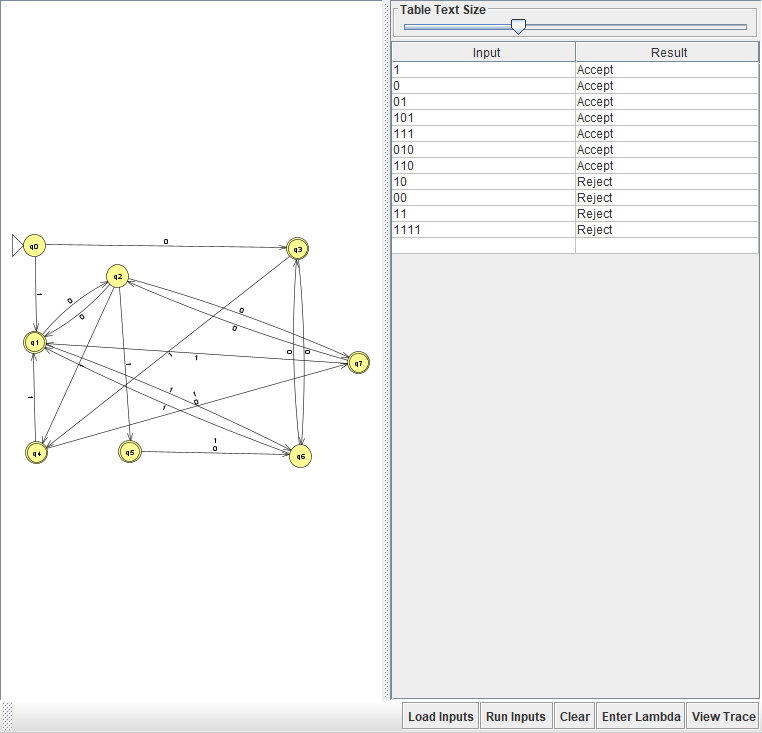
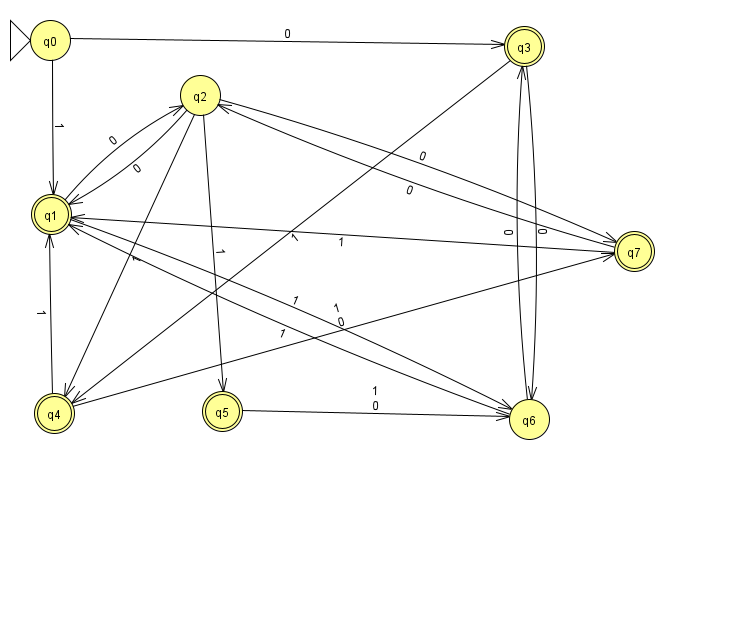
Update README, n08r.md, n16r.md; refresh n16/n21/n23 diagrams

diff --git a/README.md b/README.md
@@ -1,0 +1,220 @@
+\# NFA Design Project
+
+
+
+\## Problems Chosen
+
+
+
+| # | Language | File |
+
+|---|----------|------|
+
+| 8 | starts with `01` and ends with `10` | \[n08](n08.jff) |
+
+| 11 | 2nd-to-last bit is `1` | \[n11](n11.jff) |
+
+| 16 | every odd position is `1` | \[n16](n16.jff) |
+
+| 21 | `1`s ≡ 1 (mod 3) AND odd # of `0`s | \[n21](n21.jff) |
+
+| 23 | odd length OR `s = 01` | \[n23](n23.jff) |
+
+
+
+Each problem has three artifacts: the JFLAP file (`nXX.jff`), the test
+
+strings (`nXXt.txt`), and a report with diagram + batch-run screenshot
+
+(`nXXr.md`).
+
+
+
+\---
+
+
+
+\## Which problem gave me the most trouble?
+
+
+
+\*\*Problem 21\*\* (3k+1 ones AND odd zeros) was by far the hardest. The
+
+6-state structure wasn't conceptually difficult, but the diagram
+
+layout caused JFLAP to mis-route transitions once the state machine
+
+started looping. Strings that only went around the loop once (`10`,
+
+`1000`, `11110`) accepted correctly, but strings requiring multiple
+
+loops (`100000` with 5 zeros, `11111110` with 7 ones) rejected.
+
+
+
+\## Did I avoid any problem that was too challenging?
+
+
+
+I avoided problems with even more state (like #20 and #22, which
+
+would need a 6- or 9-state product) to make sure I could finish all
+
+5 by the deadline. Problem 21 already took most of the project time.
+
+
+
+\## Which problems surprised me with a "gold-st-ring"?
+
+
+
+\*\*n08, n21, and n23\*\* all had gold-st-ring moments:
+
+
+
+\- \*\*n08\*\* — `01110` and `01010` rejected because the self-loop on q2
+
+&#x20; and the q2→q3 transition anchored at the same point. JFLAP
+
+&#x20; mis-routed the `1` transition. Fix: add the outgoing arrow first,
+
+&#x20; then the self-loop, and separate the anchor points.
+
+
+
+\- \*\*n21\*\* — long strings rejected when q1 and q4 were packed close
+
+&#x20; together. The q1↔q4 pair of `0`-transitions overlapped visually
+
+&#x20; and JFLAP confused which direction to fire. Fix: spread states
+
+&#x20; apart on the canvas; no label changes needed.
+
+
+
+\- \*\*n23\*\* — my first attempt was the 8-state DFA product
+
+&#x20; construction, which rejected `010` and `110` (both odd-length).
+
+&#x20; Rebuilding as a 4-state NFA passed immediately.
+
+
+
+\## Which next state(s) did I not account for?
+
+
+
+In n08, I didn't account for the fact that JFLAP merges overlapping
+
+transition anchors. My mental model assumed "two arrows leaving q2
+
+on `1` = NFA branches". JFLAP's simulation apparently treated them
+
+as a single merged edge, so the branch to q3 never fired on the
+
+self-loop iteration.
+
+
+
+In n21, I didn't account for the same class of bug: `q1 --0--> q4`
+
+and `q4 --0--> q1` drawn as two arcs between the same pair of
+
+states. When the machine cycled through them more than once, the
+
+anchor-point ambiguity accumulated and the trace went to the wrong
+
+next state.
+
+
+
+\## How will I avoid these errors in future state-controller tasks?
+
+
+
+1\. \*\*Draw transitions with distinct visual anchors\*\* whenever two
+
+&#x20;  edges leave the same state on the same symbol. Prefer widely
+
+&#x20;  separated states over tightly packed layouts.
+
+2\. \*\*Test with a "loop-heavy" string early.\*\* Short strings hide
+
+&#x20;  anchor-routing bugs. Add at least one string that requires 3+
+
+&#x20;  iterations through any cycle.
+
+3\. \*\*When using JFLAP (or any FSM tool), trust the tool's step
+
+&#x20;  debugger over my own mental trace.\*\* The Step with Closure
+
+&#x20;  output revealed exactly where routing diverged from my intent.
+
+
+
+This applies directly to compiler/traffic/flight state controllers:
+
+anywhere a state has multiple outgoing edges on the same input, the
+
+implementation must resolve the target unambiguously. Nondeterminism
+
+is safe only when the runtime truly explores both branches.
+
+\## Did I ask questions to AI/instructor?
+
+
+
+I used AI assistance (Deepseek) throughout the project to:
+
+
+
+\- Understand the difference between Step by State and Step with
+
+&#x20; Closure when JFLAP's behavior surprised me
+
+\- Debug the transition-overlap bug in n08 and n21 by walking through
+
+&#x20; the NFA's trace step-by-step and comparing to my mental model
+
+\- Verify the "why not 8 states?" question for n23 (union construction
+
+&#x20; vs. NFA branching)
+
+\- Understand JFLAP's file format requirements for `nXXt.txt`
+
+
+
+I did not ask the instructor, but if I'd had more time I would have
+
+asked about the transition-overlap behavior in JFLAP 7.1, since it
+
+wasn't documented anywhere I could find.
+
+
+
+\## Other insights for the instructor
+
+
+
+\- The \*\*union construction question in n23\*\* was worth doing: it
+
+&#x20; forced me to explain why NFAs are smaller than the product DFA,
+
+&#x20; which I hadn't had to articulate before.
+
+\- \*\*JFLAP 7.1 has a subtle transition-routing bug\*\* when two arrows
+
+&#x20; share an anchor. It would help future students if the assignment
+
+&#x20; warned about this, or if we got a short demo of "spread your
+
+&#x20; states out" during the intro lecture.
+
+\- I committed incrementally and pushed after every problem. The
+
+&#x20; commit history shows the debugging journey (see `git log`).
+
+
+
+
+

diff --git a/n08r.md b/n08r.md
@@ -1,60 +1,47 @@
-\# Problem 08 — Strings that start with `01` AND end with `10`
+# Problem 08 — Strings that start with `01` AND end with `10`
 
+## NFA
 
+![NFA diagram](n08.png)
 
-\## NFA
+## Test Strings
 
+See [`n08t.txt`](n08t.txt).
 
+## Batch Run
 
-!\[NFA diagram](n08.png)
+![Batch run screenshot](n08_batch.png)
 
+## Gold-St-Ring #1: `01110` and `01010` rejected on first design
 
-
-\## Test Strings
-
-
-
-See \[`n08t.txt`](n08t.txt).
-
-
-
-\## Batch Run
-
-
-
-!\[Batch run screenshot](n08\_batch.png)
-
-
-
-\## Gold-St-Ring: `01110` and `01010` were rejected on first design
-
-
-
-\*\*What went wrong:\*\* My first NFA had a self-loop `0,1` on q2 and an
-
+**What went wrong:** My first NFA had a self-loop `0,1` on q2 and an
 arrow `q2 --1--> q3`. JFLAP routed the q2→q3 arrow through the same
-
 anchor point as the self-loop, so the `1` transition never fired
-
 properly. Short strings like `0110` accepted, but anything requiring
-
 the middle loop (`01110`, `01010`) rejected.
 
-
-
-\*\*What I tried:\*\* deleting the self-loop, redrawing the arrow, moving
-
+**What I tried:** deleting the self-loop, redrawing the arrow, moving
 q3. None worked until I restructured the NFA so the self-loop and the
-
 outgoing transition anchor at different points on q2.
 
-
-
-\*\*Lesson:\*\* When two transitions leave the same state on the same
-
+**Lesson:** When two transitions leave the same state on the same
 symbol, JFLAP can mis-route them if they visually overlap. In NFAs
-
 (and real state machines), always verify that parallel transitions
-
 have distinct anchor points or use distinct states for distinct roles.
 
+## Gold-St-Ring #2: string `010` (accepted)
+
+### Hand-drawn computation tree
+
+![Hand-drawn tree](n08_tree.png)
+
+### JFLAP Step with Closure
+
+![Step trace](n08_steps.png)
+
+**What the trace shows:** After reading `010`, the state set does not
+contain any final state — the `01`-prefix and `10`-suffix conditions
+aren't both satisfied. This string was one of my gold-st-ring cases
+because its rejection initially confused me: it *starts* with `01`
+but doesn't *end* with `10`, so the suffix condition fails. Tracing
+step-by-step confirmed the NFA correctly rejects it.

diff --git a/n16r.md b/n16r.md
@@ -29,6 +29,26 @@ The NFA alternates between two roles:
 Notice there is **no `q2 --0-->` transition**. If we're at q2 (expecting an
 odd position) and we read `0`, the odd position rule is violated, and the
 NFA has no path forward — that branch dies. That's how rejection happens.
+## Gold-St-Ring Deep Dive: string `101` (accepted)
+
+### Hand-drawn computation tree
+
+![Hand-drawn tree](n16_tree.png)
+
+### JFLAP Step with Closure
+
+![Step trace](n16_steps.png)
+
+**What the trace shows:** `101` reads:
+- `{q0}` → `1` → `{q1}` (position 1 = `1` ✅)
+- → `0` → `{q2}` (position 2 = even, anything allowed)
+- → `1` → `{q1}` (position 3 = `1` ✅, q1 is final → ACCEPT)
+
+This string was a gold-st-ring case because I initially marked only
+q2 as final, which rejected every odd-length string. Making q1 final
+as well fixed the bug. The step trace confirms q1 is reachable as
+the last state on odd-length strings that respect the odd-position
+rule.
 
 ## Gold-St-Ring
 
